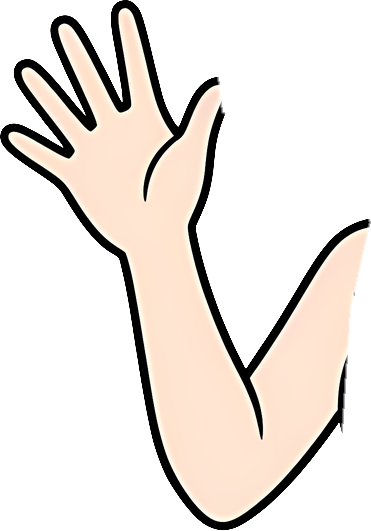
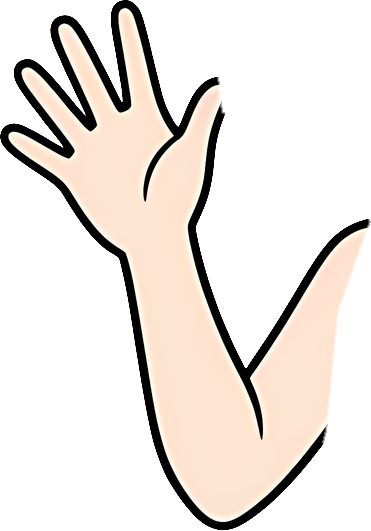
v4c 5단계 진행: 겨드랑이 띠 OUTER 처리, 구멍 제거(외곽선 톱니 남음)

Changed region(s): [[0.8598, 0.4218, 1.0, 0.8437]]

diff --git a/public/v4c-demo/src/build4.py b/public/v4c-demo/src/build4.py
@@ -3,7 +3,7 @@
 import json,numpy as np
 from PIL import Image,ImageDraw
 from scipy.ndimage import binary_dilation as bd, distance_transform_edt
-RAMP=3;S=2;W,H=1440,2560;R='/workspace/siha-v4/rebuild/';P='/workspace/ssb/public/v4c-demo/'
+BAND=40;RAMP=3;S=2;W,H=1440,2560;R='/workspace/siha-v4/rebuild/';P='/workspace/ssb/public/v4c-demo/'
 def key(f):
     a=np.asarray(Image.open(f).convert('RGB')).astype(float);r,g,b=a[...,0],a[...,1],a[...,2]
     al=np.clip(1-(g-np.maximum(r,b)-20)/60,0,1);rgb=a.copy();rgb[...,1]=np.minimum(g,np.maximum(r,b));return rgb,al
@@ -16,13 +16,14 @@ e=(bd(rim,iterations=2)&~rim)&(rgb.max(2)<140);mm=rgb.min(2)[e]*0.6
 for c in range(3): rgb[...,c][e]=mm
 def poly(pts):
     m=Image.new('L',(W,H),0);ImageDraw.Draw(m).polygon([(x*S,y*S) for x,y in pts],fill=255);return np.asarray(m)>0
-armL=poly([(0,330),(190,330),(198,400),(262,440),(272,455),(262,500),(258,560),(240,620),(0,620)])
+armL=poly([(0,330),(190,330),(198,400),(262,440),(272,455),(256,500),(250,560),(234,620),(0,620)])
 armR=poly([(418,470),(440,462),(530,470),(720,470),(720,900),(560,900),(460,800),(412,650),(416,560),(416,520)])
 head=poly([(200,0),(720,0),(720,470),(530,470),(440,462),(418,450),(262,445),(205,385),(195,330)])&~armL
 rest=~(armL|armR|head);d14=bd(rest,iterations=14)
-bodyM=rest|(d14&(armL|armR|head))
+bodyM=rest|(d14&(armR|head))|(d14&armL)|(bd(rest,iterations=BAND)&armL&(np.arange(H)[:,None]>=950)&(alpha>0.5))
+bodyM=bodyM|(bd(armL,iterations=8)&bd(head,iterations=8)&(alpha>0.05))  # 팔·머리 경계 아래 피부 깔개
 ramp=lambda m:np.clip(distance_transform_edt(m)/RAMP,0,1)
-cL,cR,cH=ramp(armL|bg),ramp(armR|bg),ramp(head|bg)
+cL,cR,cH=ramp(armL|bg|head),ramp(armR|bg|head),ramp(head|bg|armL|armR)
 SL={}
 def save(name,rgb,A,bone,item=None):
     A=(A*255).round().astype(np.uint8);ys,xs=np.nonzero(A>0)
@@ -32,12 +33,23 @@ def save(name,rgb,A,bone,item=None):
     s=dict(name=name,bone=bone,path=f'parts/{name}.png',x=int(x0),y=int(y0),width=int(x1-x0),height=int(y1-y0))
     if item: s['item']=item
     SL[name]=s
-save('body',rgb,alpha*bodyM,'root');save('arm_R',rgb,alpha*armR*cR,'arm_R');save('arm_L',rgb,alpha*armL*cL,'arm_L');save('head',rgb,alpha*head*cH,'head')
+# 외곽선은 한 레이어에만: 몸통 겹침띠(왼팔 영역) 안의 어두운 외곽선 픽셀을 몸통에서 지운다(팔 레이어가 소유)
+ERODE=bodyM&armL&(rgb.min(2)<200)&(np.arange(H)[:,None]>=950)
+ERODE=bd(ERODE,iterations=2)&bodyM&armL&(alpha>0.5)
+bA=alpha*bodyM
+# 피부 깔개: 지운 외곽선 자리는 가장 가까운 피부 픽셀 색(처리값)으로 채워 회전 시 구멍 방지
+skin=(rgb.min(2)>150)&(alpha>0.95)&~ERODE
+_,(iy,ix)=distance_transform_edt(~skin,return_indices=True)
+brgb=rgb.copy();brgb[ERODE]=rgb[iy[ERODE],ix[ERODE]];bA[ERODE]=1
+# 배경과 맞닿은 팔 바깥 외곽선 자리는 깔개를 두지 않는다(팔이 움직이면 배경이 보여야 함)
+OUTER=bodyM&armL&(np.arange(H)[:,None]>=950)&bd(bg,iterations=16)&~rest;D=OUTER&(rgb.min(2)<200);brgb[D]=rgb[D];bA[OUTER]=0;K2=bd(D,iterations=7)&OUTER&(alpha>0.5);brgb[K2]=rgb[K2];bA[K2]=alpha[K2];bA[D]=alpha[D]  # 바깥 외곽선은 유지
+save('body',brgb,bA,'chest');save('arm_R',rgb,alpha*armR*cR,'arm_R');cL=np.where(bA>0.99,cL,1.0)  # 깔개가 없는 곳은 팔이 불투명
+save('arm_L',rgb,alpha*armL*cL,'arm_L');save('head',rgb,alpha*head*cH,'head')
 OUT={'dress':('dress_c27b','d27b2'),'top':('sailor_c27e','saile'),'crop':('crop_c27e','crope')}
 for it,(src,mk) in OUT.items():
     orgb,_=key(R+f'x4/{src}_x2.png')
     m=np.asarray(Image.open(P+f'src/outfit/o_{mk}.png').getchannel('A').resize((W,H),Image.BILINEAR)).astype(float)/255
-    save(f'item_{it}_body',orgb,m*bodyM,'root',it);save(f'item_{it}_arm_R',orgb,m*armR*cR,'arm_R',it)
+    save(f'item_{it}_body',orgb,m*bodyM,'chest',it);save(f'item_{it}_arm_R',orgb,m*armR*cR,'arm_R',it)
     save(f'item_{it}_arm_L',orgb,m*armL*cL,'arm_L',it);save(f'item_{it}_neck',orgb,m*head*cH,'head',it)
 # 소품: 단독 생성 그림을 키잉한 레이어를 크기 조절·이동만 해서 배치
 def prop(name,fn,cx,top,w,bone,item):
